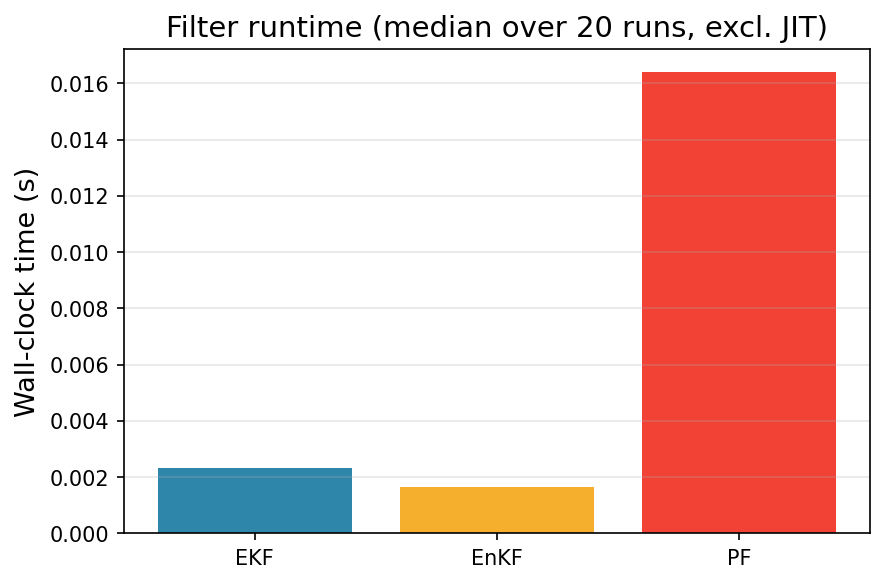
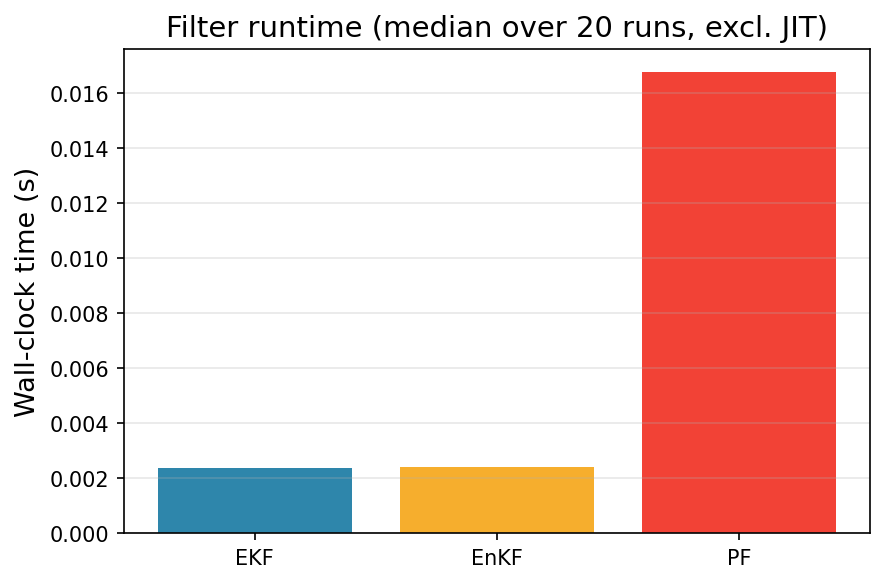
Generalize EnKF for General Simulator Dynamics
Generalizes the EnKF interface for a generic simulator function, rather than Gaussian-only dynamics.
- filter_prepare now takes in init_sample, and finds the dummy ensemble shape via `jax.eval_shape` on the init
- DynamicsFn is now has signature (Array, KeyArray) -> Array, reflecting a generic stochastic simulator p(x_{t+1} | x_t)
- Updated tests + examples to reflect new API
- Also increased the number of particles in an EnKF test to avoid some spurious failure on a single seed

diff --git a/cuthbert/enkf/ensemble_kalman_filter.py b/cuthbert/enkf/ensemble_kalman_filter.py
@@ -68,7 +68,7 @@ def build_filter(
 
     Args:
         init_sample: Function to sample from the initial distribution.
-        get_dynamics: Function to get dynamics function and chol_Q from model inputs.
+        get_dynamics: Function to get dynamics function (x_t, key) -> x_{t+1} ~ p(x_{t+1} | x_t) from model inputs.
         get_observations: Function to get observation function, chol_R, and y from model inputs.
         n_particles: Number of particles.
         inflation: Multiplicative inflation factor for ensemble deviations.
@@ -91,7 +91,7 @@ def build_filter(
         ),
         filter_prepare=partial(
             filter_prepare,
-            get_dynamics=get_dynamics,
+            init_sample=init_sample,
             n_particles=n_particles,
         ),
         filter_combine=partial(
@@ -143,7 +143,7 @@ def init_prepare(
 
 def filter_prepare(
     model_inputs: ArrayTreeLike,
-    get_dynamics: GetEnKFDynamics,
+    init_sample: InitSample,
     n_particles: int,
     key: KeyArray | None = None,
 ) -> EnKFState:
@@ -151,8 +151,7 @@ def filter_prepare(
 
     Args:
         model_inputs: Model inputs.
-        get_dynamics: Function to get dynamics function and chol_Q from model inputs
-            (used to infer state shape).
+        init_sample: Function to sample from the initial distribution.
         n_particles: Number of particles.
         key: JAX random key.
 
@@ -166,10 +165,9 @@ def filter_prepare(
     if key is None:
         raise ValueError("A JAX PRNG key must be provided.")
 
-    # Infer state shape from get_dynamics
-    # We need to index into get_dynamics so that we don't eval_shape over dynamics_fn
-    dummy_chol_Q = jax.eval_shape(lambda mi: get_dynamics(mi)[1], model_inputs)
-    x_dim = dummy_chol_Q.shape[0]
+    # Infer state shape from init_sample
+    dummy_particle = jax.eval_shape(init_sample, key)
+    x_dim = dummy_particle.shape[0]
     ensemble = jnp.empty((n_particles, x_dim))
     ensemble = dummy_tree_like(ensemble)
 
@@ -207,12 +205,11 @@ def filter_combine(
     key_pred, key_update, key_next = random.split(state_1.key, 3)
 
     # Predict
-    dynamics_fn, chol_Q = get_dynamics(state_2.model_inputs)
+    dynamics_fn = get_dynamics(state_2.model_inputs)
     predicted = enkf_lib.predict(
         key_pred,
         state_1.ensemble,
         dynamics_fn,
-        chol_Q,
         inflation,
     )
 

diff --git a/tests/cuthbert/enkf/test_enkf.py b/tests/cuthbert/enkf/test_enkf.py
@@ -23,19 +23,19 @@ def config():
 
 def load_enkf_inference(m0, chol_P0, Fs, cs, chol_Qs, Hs, ds, chol_Rs, ys, noop=False):
     n_particles = 100_000
+    x_dim = m0.shape[0]
 
     def init_sample(key):
         return m0 + chol_P0 @ random.normal(key, m0.shape)
 
     if noop:
-        x_dim = m0.shape[0]
         y_dim = ys.shape[1] if ys.ndim > 1 else 1
 
-        def dynamics_fn(x):
+        def dynamics_fn(x, key):
             return x
 
         def get_dynamics(model_inputs):
-            return dynamics_fn, jnp.zeros((x_dim, x_dim))
+            return dynamics_fn
 
         def observation_fn(x):
             return jnp.zeros(y_dim)
@@ -47,7 +47,11 @@ def load_enkf_inference(m0, chol_P0, Fs, cs, chol_Qs, Hs, ds, chol_Rs, ys, noop=
 
         def get_dynamics(model_inputs):
             idx = model_inputs - 1
-            return lambda x: Fs[idx] @ x + cs[idx], chol_Qs[idx]
+            return (
+                lambda x, key: Fs[idx] @ x
+                + cs[idx]
+                + chol_Qs[idx] @ random.normal(key, (x_dim,))
+            )
 
         def get_observations(model_inputs):
             idx = model_inputs - 1
@@ -119,12 +123,11 @@ class Test(chex.TestCase):
         def init_sample(key):
             return m0 + chol_P0 @ random.normal(key, m0.shape)
 
-        def dynamics_fn(x):
+        def dynamics_fn(x, key):
             return jnp.tanh(x)
 
         def get_dynamics(model_inputs):
-            idx = model_inputs - 1
-            return dynamics_fn, chol_Qs[idx]
+            return dynamics_fn
 
         def get_observations(model_inputs):
             idx = model_inputs - 1
@@ -209,7 +212,7 @@ def test_build_filter_requires_at_least_two_particles():
     with pytest.raises(ValueError, match="at least 2"):
         ensemble_kalman_filter.build_filter(
             init_sample=init_sample,
-            get_dynamics=lambda _: (lambda x: x, jnp.eye(1)),
+            get_dynamics=lambda _: (lambda x, key: x),
             get_observations=lambda _: (lambda x: x, jnp.eye(1), jnp.zeros(1)),
             n_particles=1,
         )

diff --git a/cuthbertlib/enkf/filtering.py b/cuthbertlib/enkf/filtering.py
@@ -16,23 +16,21 @@ from cuthbertlib.stats import multivariate_normal
 from cuthbertlib.types import Array, ArrayTreeLike, KeyArray, ScalarArray
 
 ObservationFn = Callable[[Array], Array]
-DynamicsFn = Callable[[Array], Array]
+DynamicsFn = Callable[[Array, KeyArray], Array]
 
 
 def predict(
     key: KeyArray,
     ensemble: Array,
     dynamics_fn: DynamicsFn,
-    chol_Q: Array,
     inflation: float = 0.0,
 ) -> Array:
-    """Propagate ensemble members through nonlinear dynamics with additive Gaussian noise.
+    """Propagate ensemble members through an arbitrary simulator p(x_{t+1} | x_t).
 
     Args:
         key: JAX PRNG key.
         ensemble: Ensemble of state vectors, shape (N, x_dim).
-        dynamics_fn: Dynamics function mapping (state) -> state.
-        chol_Q: Cholesky factor of the dynamics noise covariance, shape (x_dim, x_dim).
+        dynamics_fn: Dynamics function mapping (state, key) -> state.
         inflation: Multiplicative inflation factor applied to ensemble deviations.
 
     Returns:
@@ -41,11 +39,8 @@ def predict(
     N, x_dim = ensemble.shape
 
     # Propagate each member through the dynamics
-    propagated = jax.vmap(dynamics_fn, (0,))(ensemble)
-
-    # Add dynamics noise
-    noise = (chol_Q @ random.normal(key, (x_dim, N))).T
-    propagated = propagated + noise
+    keys = random.split(key, N)
+    propagated = jax.vmap(dynamics_fn, (0, 0))(ensemble, keys)
 
     # Apply multiplicative inflation
     mean = jnp.mean(propagated, axis=0)

diff --git a/tests/cuthbertlib/enkf/test_filtering.py b/tests/cuthbertlib/enkf/test_filtering.py
@@ -23,9 +23,7 @@ def test_predict_identity(seed, x_dim):
     key = random.key(seed)
     N = 100
     ensemble = random.normal(key, (N, x_dim))
-    chol_Q = jnp.zeros((x_dim, x_dim))
-
-    predicted = predict(key, ensemble, lambda x: x, chol_Q, inflation=0.0)
+    predicted = predict(key, ensemble, lambda x, key: x, inflation=0.0)
     chex.assert_trees_all_close(predicted, ensemble, atol=1e-12)
 
 
@@ -34,7 +32,7 @@ def test_predict_identity(seed, x_dim):
 def test_predict_linear(seed, x_dim):
     """Linear dynamics should shift the ensemble mean correctly."""
     key = random.key(seed)
-    N = 100_000
+    N = 1_000_000
 
     lgssm = generate_lgssm(seed, x_dim, 1, 1)
     F, c, chol_Q = lgssm[2][0], lgssm[3][0], lgssm[4][0]
@@ -47,8 +45,7 @@ def test_predict_linear(seed, x_dim):
     predicted = predict(
         random.key(seed + 100),
         ensemble,
-        lambda x: F @ x + c,
-        chol_Q,
+        lambda x, key: F @ x + c + chol_Q @ random.normal(key, (x_dim,)),
         inflation=0.0,
     )
 
@@ -65,10 +62,9 @@ def test_predict_inflation(seed, x_dim):
     key = random.key(seed)
     N = 100
     ensemble = random.normal(key, (N, x_dim))
-    chol_Q = jnp.zeros((x_dim, x_dim))
     delta = 0.05
 
-    predicted = predict(key, ensemble, lambda x: x, chol_Q, inflation=delta)
+    predicted = predict(key, ensemble, lambda x, key: x, inflation=delta)
 
     mean = jnp.mean(ensemble, axis=0)
     expected = mean + (1 + delta) * (ensemble - mean)

diff --git a/cuthbert/enkf/types.py b/cuthbert/enkf/types.py
@@ -22,16 +22,16 @@ class InitSample(Protocol):
 
 
 class GetEnKFDynamics(Protocol):
-    """Protocol for getting dynamics function and dynamics noise parameters for an EnKF. i.e., for state space x_t+1 = f(x_t, model_inputs) + Q_t, where Q_t ~ N(0, chol_Q), return (f, chol_Q)."""
+    """Protocol for getting dynamics function that describes the general simulator p(x_{t+1} | x_t)."""
 
-    def __call__(self, model_inputs: ArrayTreeLike) -> tuple[DynamicsFn, Array]:
-        """Get dynamics function and dynamics noise Cholesky factor chol_Q from model inputs.
+    def __call__(self, model_inputs: ArrayTreeLike) -> DynamicsFn:
+        """Get dynamics function that describes the general simulator p(x_{t+1} | x_t) from model inputs.
 
         Args:
             model_inputs: Model inputs.
 
         Returns:
-            Tuple with dynamics function and Cholesky factor of the dynamics noise covariance, shape (x_dim, x_dim).
+            Dynamics function that describes the general simulator (x_t, key) -> x_{t+1} ~ p(x_{t+1} | x_t).
         """
         ...
 

diff --git a/docs/examples/enkf_comparison.md b/docs/examples/enkf_comparison.md
@@ -181,12 +181,13 @@ ekf_chol_covs = ekf_states.chol_cov
 
 ## EnKF
 
-The EnKF propagates an ensemble of particles through the nonlinear dynamics directly. It then performs a Kalman-style update using empirical covariances of these particles. It does not need to compute a Jacobian of the dynamics, unlike the EKF. We need to specify a function that generates initial samples, and functions to return dynamics and observation parameters.
+The EnKF propagates an ensemble of particles through the nonlinear dynamics directly. It then performs a Kalman-style update using empirical covariances of these particles. It does not need to compute a Jacobian of the dynamics, unlike the EKF. We need to specify a function that generates initial samples, a stochastic dynamics simulator `(x, key) -> x_next`, and observation parameters.
 
 ```{.python #enkf-comparison-enkf}
 enkf = ensemble_kalman_filter.build_filter(
     init_sample=lambda key: m0 + chol_P0 @ random.normal(key, m0.shape),
-    get_dynamics=lambda mi: (lambda x: lorenz_step(x), chol_Q),
+    get_dynamics=lambda mi: lambda x, key: lorenz_step(x)
+    + chol_Q @ random.normal(key, (x_dim,)),
     get_observations=lambda mi: (lambda x: H @ x + d_obs, chol_R, ys[mi - 1]),
     n_particles=25,
     inflation=0.05,